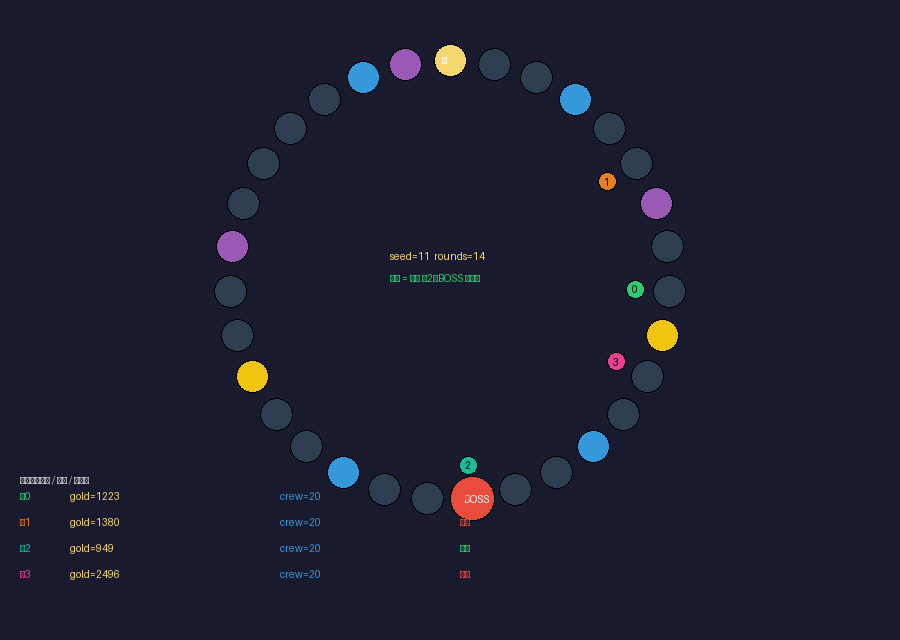
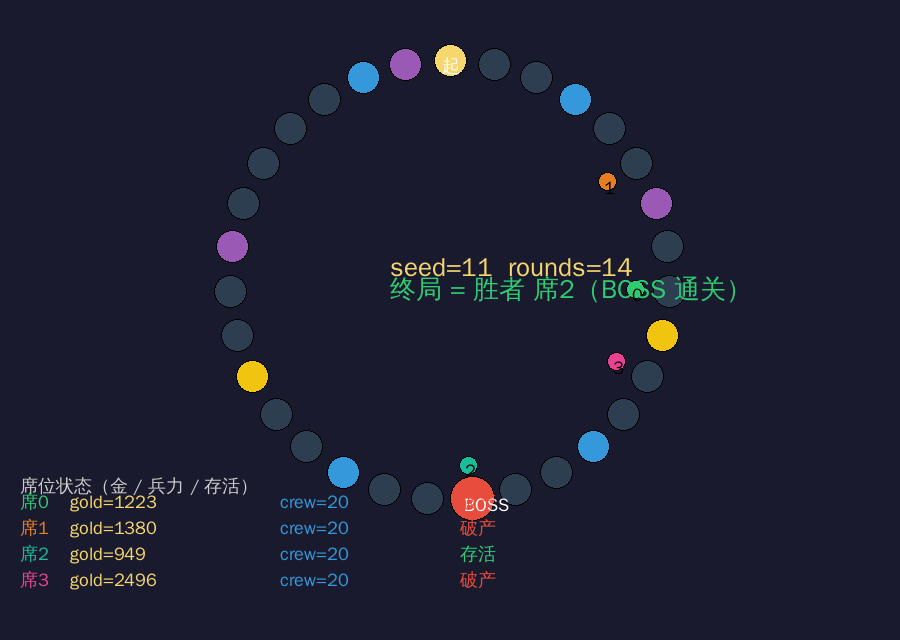
S61.0 出图工具修复：adversarial_shot.py CJK 字体（文泉驿正黑，修中文豆腐块）+ cargo PATH 补全
出图初版 PIL 默认位图字体无 CJK ⇒ 规则层快照/对比图中文全豆腐块。修：
- _font() 加载文泉驿正黑（wqy-zenhei.ttc，CJK 字体候选链 + 缺位兜底）+ 所有 dr.text 补 font=
- subprocess 调 cargo 补 ~/.cargo/bin PATH（工具契约，cargo 缺位回退）
重出 evidence/adv_seed*.png ×4 + adv_convergence_compare.png（中文正常）。
验证：adversarial_shot.py --check PASS + 4 张快照出图（seed2026→12 回合 BOSS 通关，席2 胜，
A1+A2 收敛生效：席位状态表 席0/1/3 破产 + 席2 存活）。

diff --git a/scripts/adversarial_shot.py b/scripts/adversarial_shot.py
@@ -54,6 +54,8 @@ def export_snapshot(seeds: list[int], seats: int, rounds: int) -> None:
         TI_ADV_SEATS=str(seats),
         TI_ADV_ROUNDS=str(rounds),
     )
+    # 子进程补 `~/.cargo/bin`（工具契约：cargo 缺位回退；EXP 同类 build_artifacts.py）。
+    env["PATH"] = f"{Path.home()}/.cargo/bin:{env.get('PATH', '')}"
     r = subprocess.run(cmd, cwd=ROOT, capture_output=True, text=True, env=env)
     if r.returncode != 0:
         print((r.stdout or "")[-400:] + (r.stderr or "")[-400:], file=sys.stderr)
@@ -62,10 +64,28 @@ def export_snapshot(seeds: list[int], seats: int, rounds: int) -> None:
         raise SystemExit(f"快照未生成：{SNAPSHOT}")
 
 
+def _font(size: int):
+    """CJK 字体（文泉驿正黑）；缺位才兜底默认（中文豆腐块），飞轮 R21 勘误旧「默认位图字体无 CJK」。"""
+    from PIL import ImageFont  # noqa: PLC0415
+    for cand in [
+        "/usr/share/fonts/truetype/wqy/wqy-zenhei.ttc",
+        "/usr/share/fonts/opentype/noto/NotoSansCJK-Regular.ttc",
+        "/usr/share/fonts/truetype/dejavu/DejaVuSans.ttf",
+    ]:
+        if Path(cand).exists():
+            try:
+                return ImageFont.truetype(cand, size)
+            except Exception:  # noqa: BLE001
+                continue
+    return ImageFont.load_default()
+
+
 def draw_shot(record: dict, track_kinds: list[str], out_png: Path) -> None:
     """单 seed 对局快照 → PNG（31 格环赛道 + 席位状态表 + 终局标注）。"""
     Image, _ = _load_pil()
     from PIL import ImageDraw  # noqa: PLC0415
+    font = _font(18)
+    fbig = _font(26)
     W, H = 900, 640
     img = Image.new("RGB", (W, H), "#1a1a2e")
     dr = ImageDraw.Draw(img)
@@ -82,33 +102,33 @@ def draw_shot(record: dict, track_kinds: list[str], out_png: Path) -> None:
         r = 22 if kind == "boss" else 16
         dr.ellipse([x - r, y - r, x + r, y + r], fill=kind_color.get(kind, "#34495e"), outline="#000")
         if kind in ("boss", "start"):
-            dr.text((x - 8, y - 6), "BOSS" if kind == "boss" else "起", fill="#fff")
+            dr.text((x - 8, y - 6), "BOSS" if kind == "boss" else "起", fill="#fff", font=font)
     for s, pos in enumerate(record.get("positions", [])):
         if pos is None or pos >= n:
             continue
         a = -math.pi / 2 + pos * 2 * math.pi / n
         x, y = cx + (R - 34) * math.cos(a), cy + (R - 34) * math.sin(a)
         dr.ellipse([x - 9, y - 9, x + 9, y + 9], fill=owner_color.get(s, "#fff"), outline="#000")
-        dr.text((x - 4, y - 6), str(s), fill="#000")
+        dr.text((x - 4, y - 6), str(s), fill="#000", font=font)
     winner = record.get("winner")
     alive = record.get("alive", [])
-    dr.text((cx - 60, cy - 30), f"seed={record.get('seed')}  rounds={record.get('rounds')}", fill="#f5d76e")
+    dr.text((cx - 60, cy - 30), f"seed={record.get('seed')}  rounds={record.get('rounds')}", fill="#f5d76e", font=fbig)
     if winner is not None:
         sub = f"终局 = 胜者 席{winner}" + ("（BOSS 通关）" if record.get("boss_final") else "（唯一存活）")
-        dr.text((cx - 60, cy - 8), sub, fill="#2ecc71")
+        dr.text((cx - 60, cy - 8), sub, fill="#2ecc71", font=fbig)
     else:
         sub = "终局 = 全破产（平局）" if all(a is False for a in alive) else f"未收敛（存活 {sum(1 for a in alive if a)} 席）"
-        dr.text((cx - 60, cy - 8), sub, fill="#e74c3c")
+        dr.text((cx - 60, cy - 8), sub, fill="#e74c3c", font=fbig)
     y0 = H - 150
-    dr.text((20, y0 - 16), "席位状态（金 / 兵力 / 存活）", fill="#ccc")
+    dr.text((20, y0 - 16), "席位状态（金 / 兵力 / 存活）", fill="#ccc", font=font)
     golds = record.get("gold", [])
     crews = record.get("crew", [])
     for s in range(len(alive)):
         yy = y0 + s * 26
-        dr.text((20, yy), f"席{s}", fill=owner_color.get(s, "#fff"))
-        dr.text((70, yy), f"gold={golds[s] if s < len(golds) else '?'}", fill="#f5d76e")
-        dr.text((280, yy), f"crew={crews[s] if s < len(crews) else '?'}", fill="#3498db")
-        dr.text((460, yy), "存活" if alive[s] else "破产", fill="#2ecc71" if alive[s] else "#e74c3c")
+        dr.text((20, yy), f"席{s}", fill=owner_color.get(s, "#fff"), font=font)
+        dr.text((70, yy), f"gold={golds[s] if s < len(golds) else '?'}", fill="#f5d76e", font=font)
+        dr.text((280, yy), f"crew={crews[s] if s < len(crews) else '?'}", fill="#3498db", font=font)
+        dr.text((460, yy), "存活" if alive[s] else "破产", fill="#2ecc71" if alive[s] else "#e74c3c", font=font)
     img.save(out_png)
 
 
